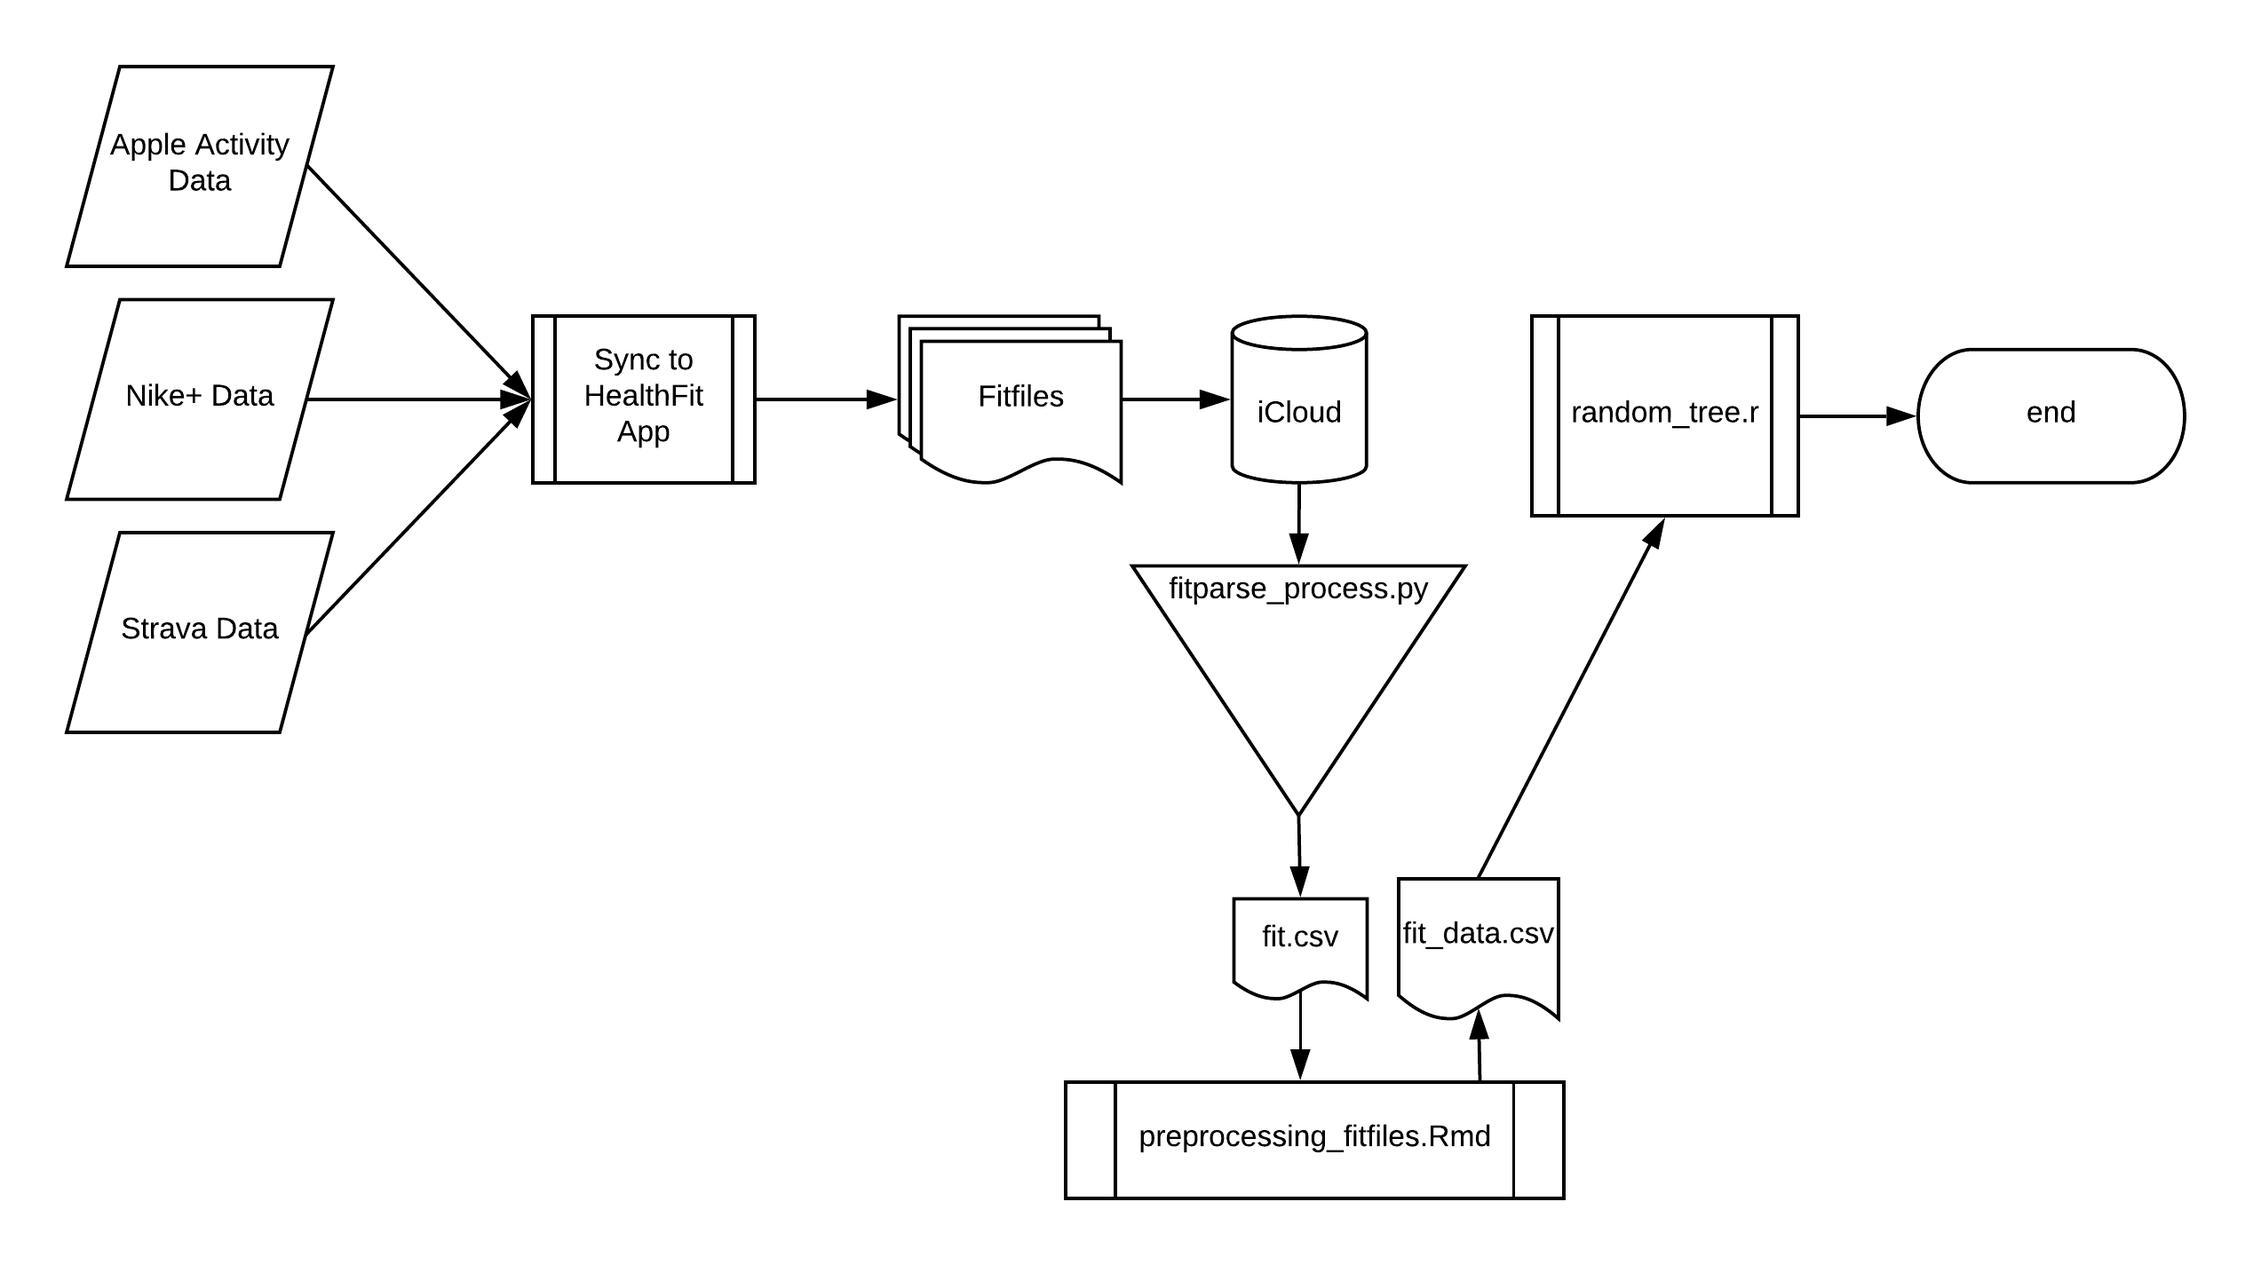
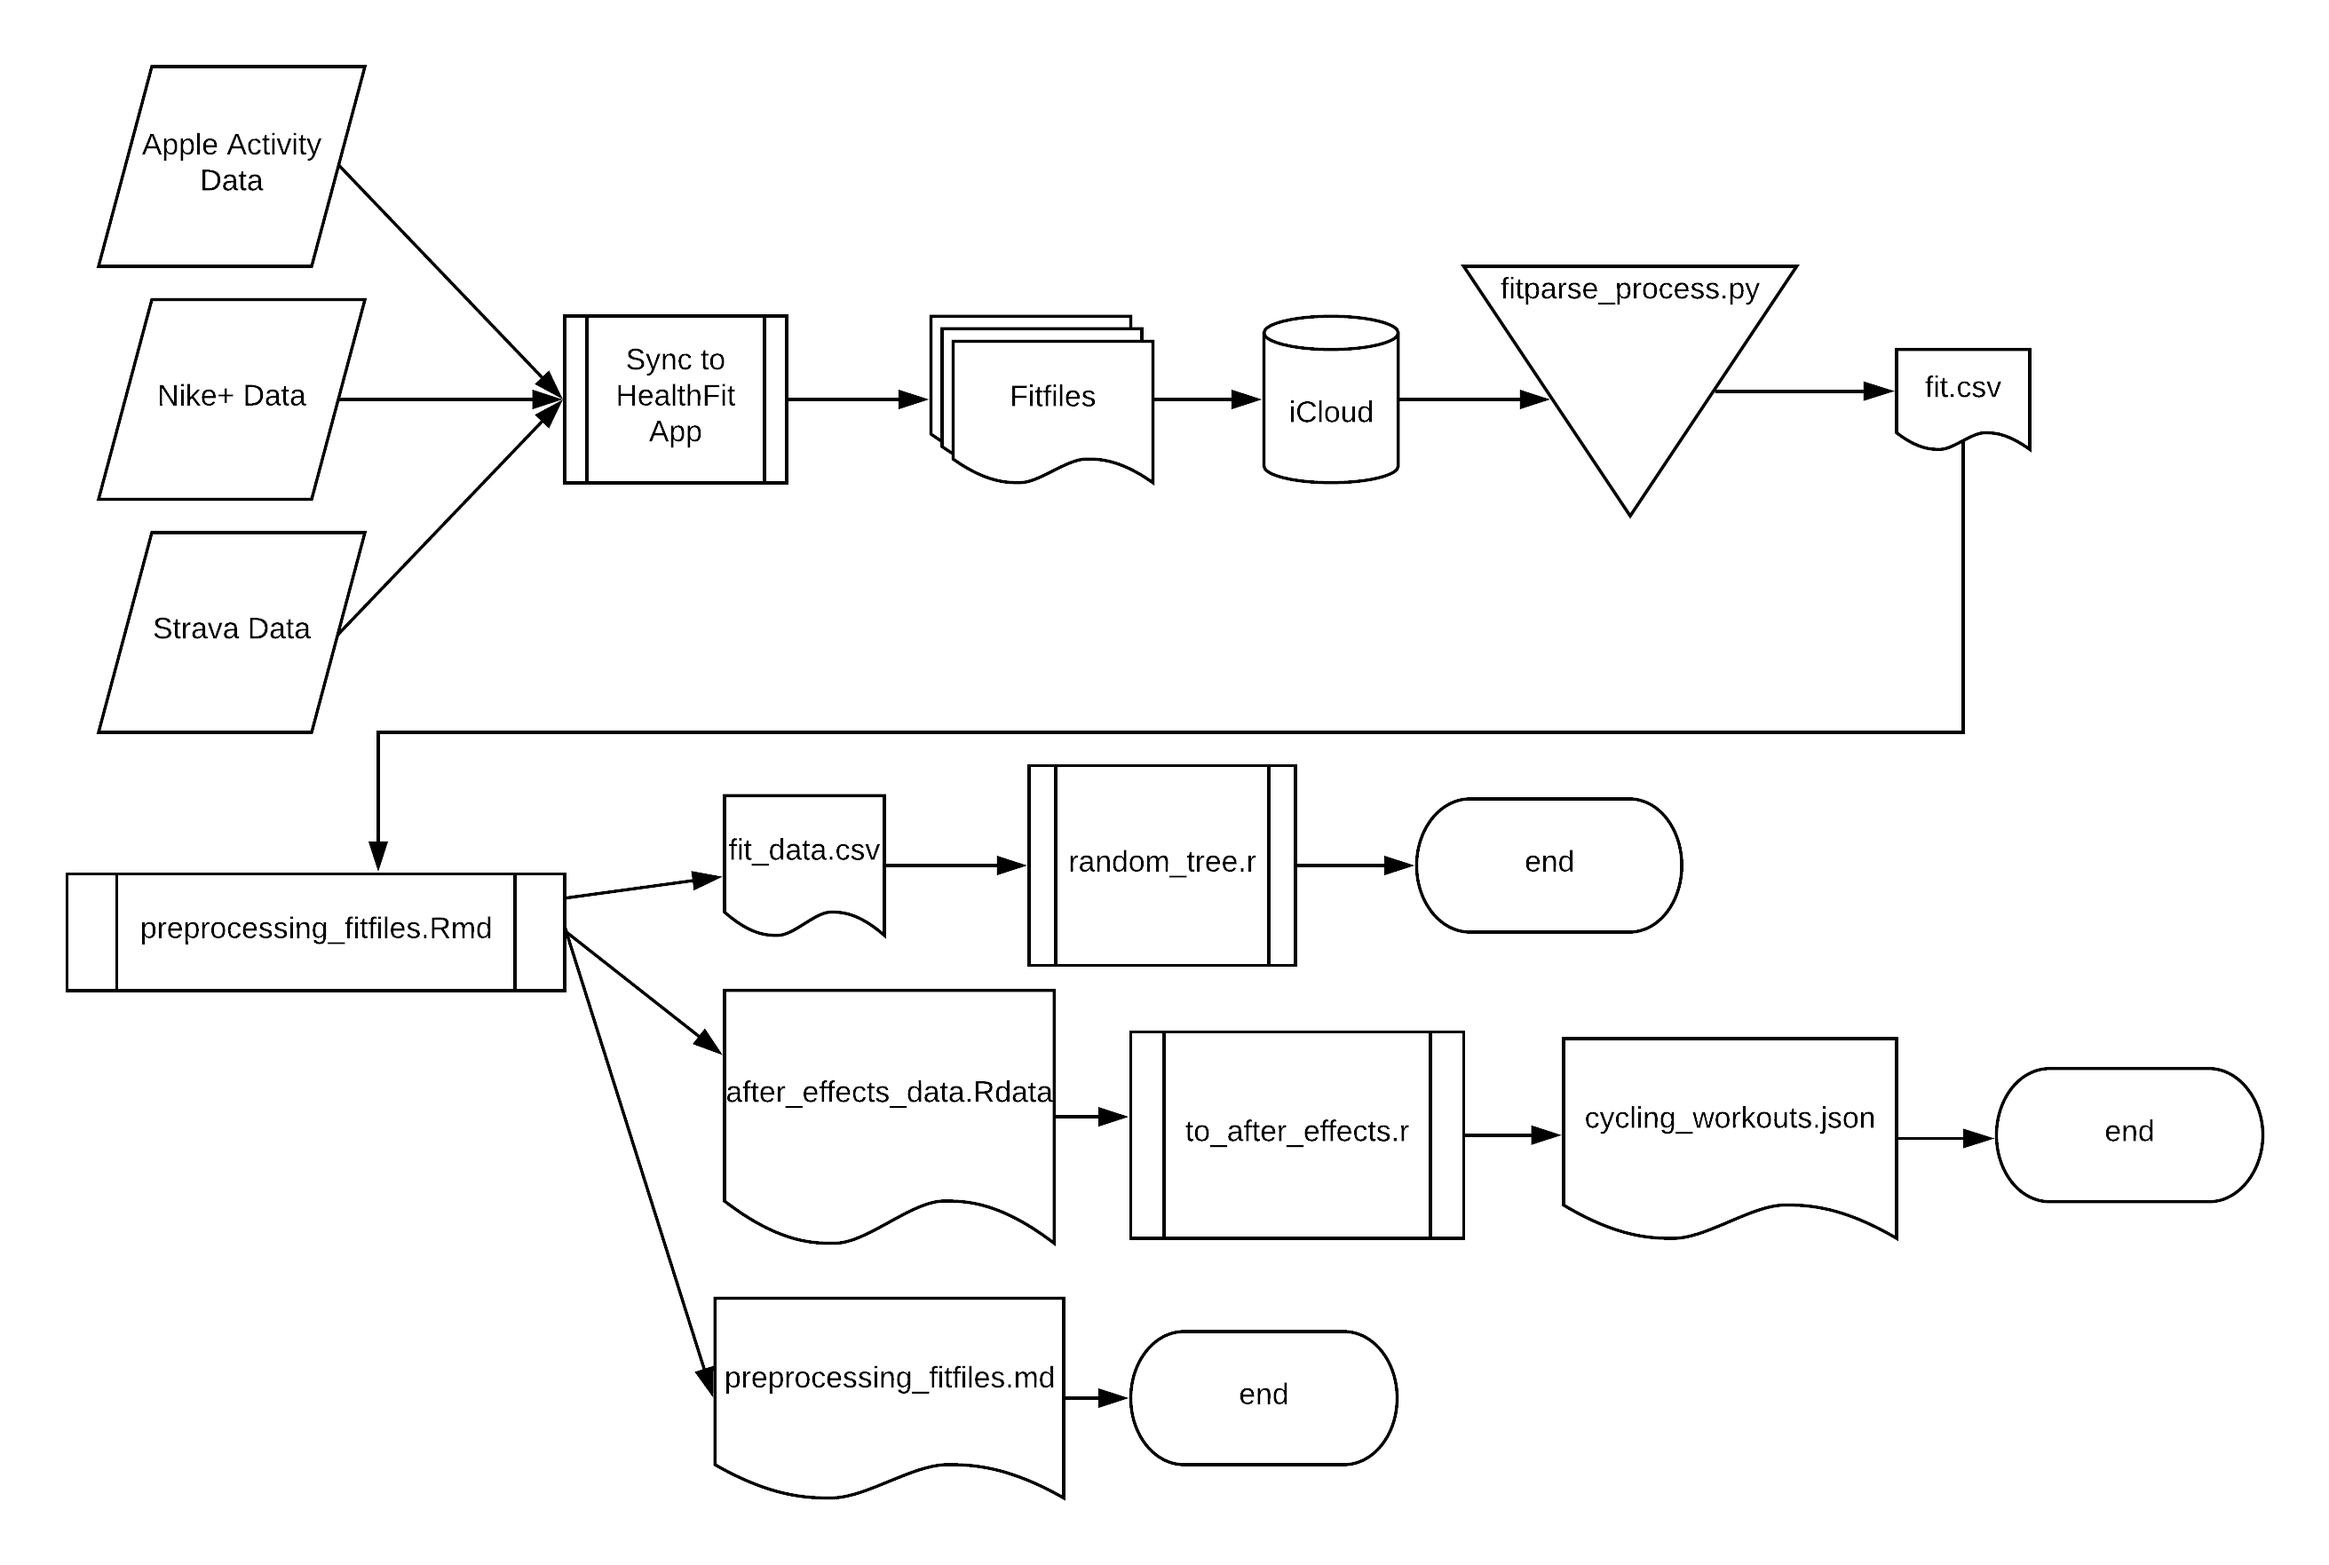
updated readme and pipeline graphic

diff --git a/readme.md b/readme.md
@@ -10,6 +10,13 @@
 - Sources currently are Strava, Apple Activity, and Nike+
 - After sync, HealthFit uploads exports each workout as a fitfile to iCloud with the extension .fit
 - Run fitparse_process.py to grab all fitfiles and combine them with a common format into fit.csv
+
+Use `make` for the following steps:
+
 - Preprocess and clean aggregated data from fit.csv using preprocessing_fitfiles.Rmd. Using knit to pdf on the R Markdown workbook produces exploratory plots as well.
-- Output of the preprocessing is fit_data.csv
+- Output of the preprocessing is fit_data.csv, after_effects_data.Rdata, and preprocessing_fitfiles.md
+- Subset cycling data for use with an After Effects project using to_after_effects.R
+
+Machine Learning: 
+
 - Use random_tree.r to build random trees and random forests using classification on the fit_data.csv file.
